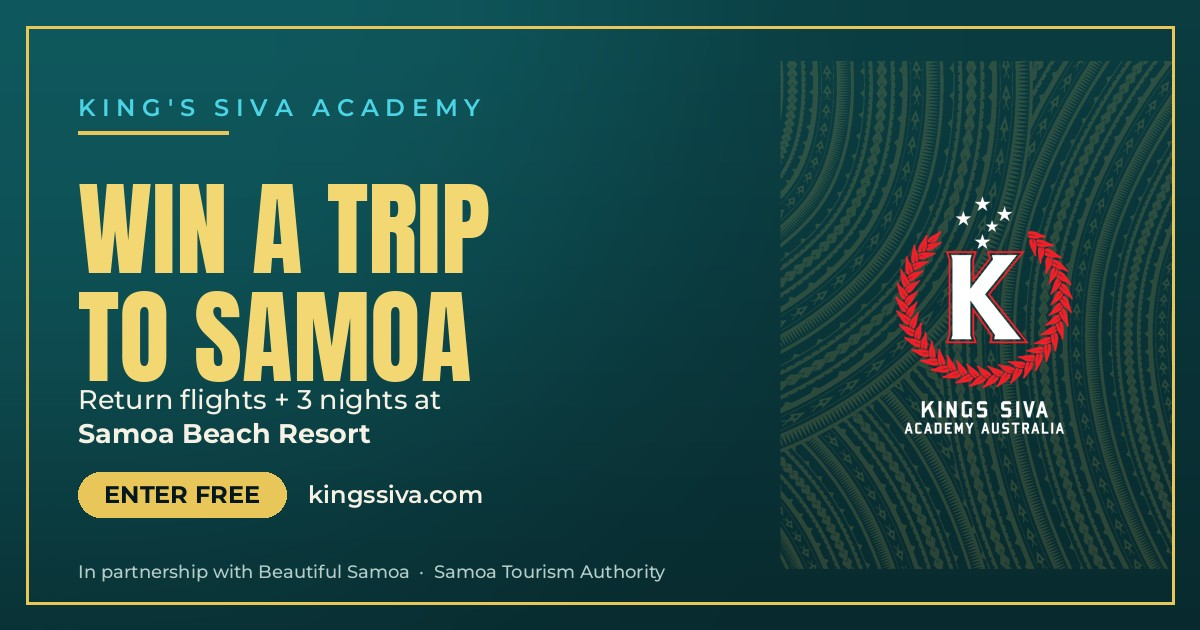
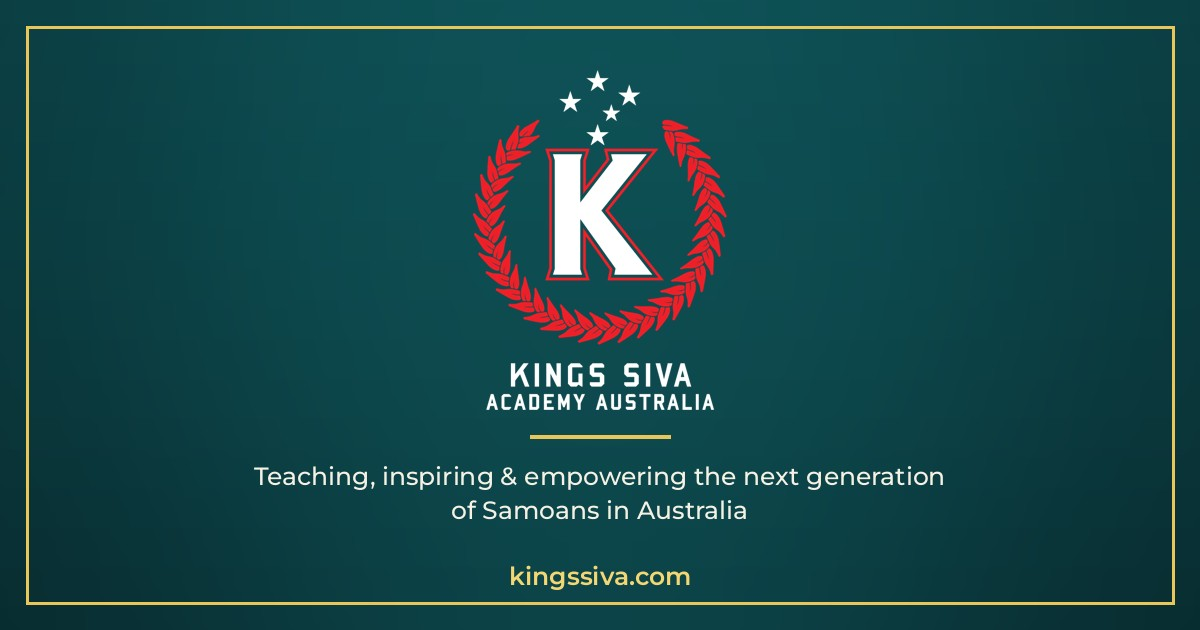
Rework OG image to Kings Siva Academy brand
- Remove tatau pattern; center the full logo lockup
- Replace giveaway messaging with the academy mission tagline
- Update OG image alt text to match

Claude-Session: https://claude.ai/code/session_01VbVgAdovGSS3o3gergG8Yf

Changed region(s): [[0.0617, 0.0905, 0.9867, 1.0], [0.0, 0.0, 0.4008, 0.3921]]

diff --git a/app/layout.tsx b/app/layout.tsx
@@ -7,7 +7,7 @@ const OG_IMAGE = {
   url: "/og.jpg",
   width: 1200,
   height: 630,
-  alt: "Win a Trip to Samoa — Kings Siva Academy giveaway. Return flights plus 3 nights at Samoa Beach Resort.",
+  alt: "Kings Siva Academy — teaching, inspiring and empowering the next generation of Samoans in Australia.",
 };
 
 export const metadata: Metadata = {
